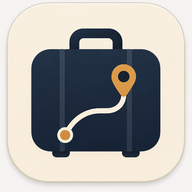
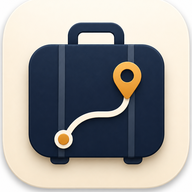
Add files via upload

diff --git a/index.html b/index.html
@@ -9,8 +9,8 @@
     <meta name="apple-mobile-web-app-title" content="TripBoard" />
     <title>TripBoard｜旅行總管</title>
     <link rel="manifest" href="./manifest.json" />
-    <link rel="apple-touch-icon" href="./icons/icon-192.png?v=homeicon1" />
-    <link rel="icon" type="image/png" href="./icons/icon-192.png?v=homeicon1" />
+    <link rel="apple-touch-icon" href="./icons/icon-192.png?v=homeicon2" />
+    <link rel="icon" type="image/png" href="./icons/icon-192.png?v=homeicon2" />
     <link rel="preconnect" href="https://fonts.googleapis.com" />
     <link rel="preconnect" href="https://fonts.gstatic.com" crossorigin />
     <link href="https://fonts.googleapis.com/css2?family=Noto+Sans+TC:wght@400;500;600;700&family=Noto+Serif+TC:wght@500;600;700;800;900&display=swap" rel="stylesheet" />

diff --git a/service-worker.js b/service-worker.js
@@ -1,4 +1,4 @@
-const CACHE_NAME = "tripboard-v2.7.3-home-icon";
+const CACHE_NAME = "tripboard-v2.7.4-home-icon-fullbleed";
 const ASSETS = [
   "./",
   "./index.html",